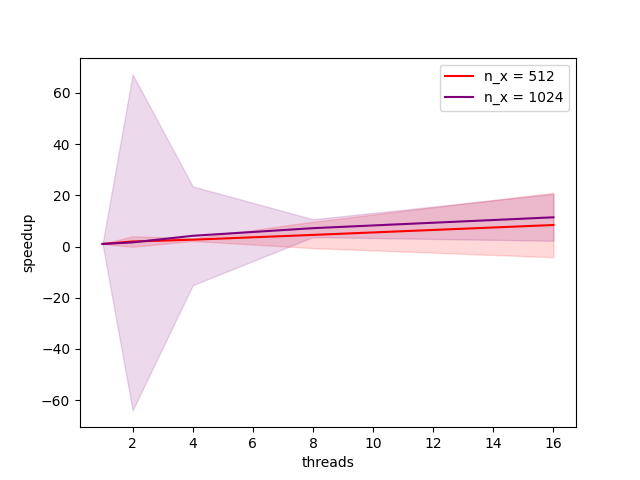
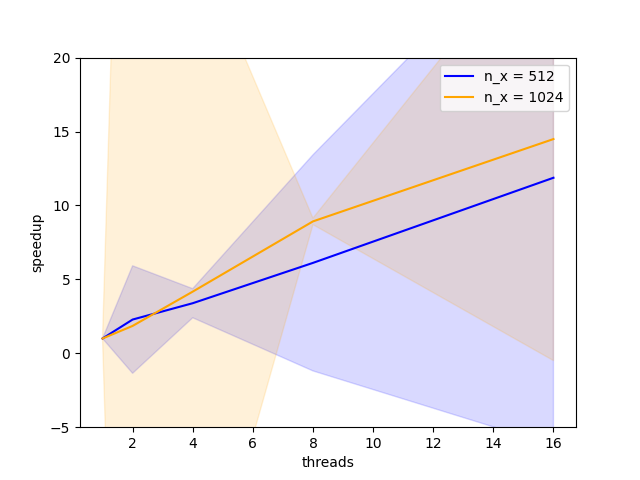
update p5

diff --git a/project_5_raw/hpc_python/rank_sum/rank_sum_C_speed.py b/project_5_raw/hpc_python/rank_sum/rank_sum_C_speed.py
@@ -1,0 +1,20 @@
+from mpi4py import MPI
+import numpy as np
+
+# get comm, size, rank & host name
+comm = MPI.COMM_WORLD
+size = comm.Get_size()
+rank = comm.Get_rank()
+
+sum_send = np.array([rank], dtype=np.int64)
+sum_receive = np.array([0], dtype=np.int64)
+sum = 0
+for i in range(size):
+      comm.Send(sum_send, dest=(rank + 1) % size)
+      comm.Recv(sum_receive, source=(rank - 1 + size) % size)
+
+      sum += sum_receive
+      sum_send = sum_receive 
+
+print(f"[rank {rank}]: fina sum = {sum[0]}")
+

diff --git a/project_5_raw/hpc_python/rank_sum/rank_sum_pickle_based.py b/project_5_raw/hpc_python/rank_sum/rank_sum_pickle_based.py
@@ -1,0 +1,20 @@
+from mpi4py import MPI
+
+# get comm, size, rank & host name
+comm = MPI.COMM_WORLD
+size = comm.Get_size()
+rank = comm.Get_rank()
+proc = MPI.Get_processor_name()
+
+rank_send = rank
+rank_receive = 0
+
+sum = 0
+for i in range(size):
+      comm.send(rank_send, dest=(rank + 1) % size)
+      rank_receive = comm.recv(source=(rank - 1 + size) % size)
+
+      sum += rank_receive
+      rank_send = rank_receive
+
+print(f"[rank {rank}]: fina sum = {sum}")

diff --git a/project_5_raw/mini_app/benchmark_strong.py b/project_5_raw/mini_app/benchmark_strong.py
@@ -31,6 +31,9 @@ def main():
     iterations_warm_up = 2
 
     for i,N in enumerate(Ns):
+        if i == 0:
+            continue
+
         plt.clf()
         for n_x in N:
             time_seq_runs = []
@@ -76,6 +79,7 @@ def main():
         if i == 0:
             plt.savefig("mini_app_openMPI_benchmark_strong_64-256.png")
         elif i == 1:
+            plt.ylim(-5, 20)
             plt.savefig("mini_app_openMPI_benchmark_strong_512-1024.png")
     
 
